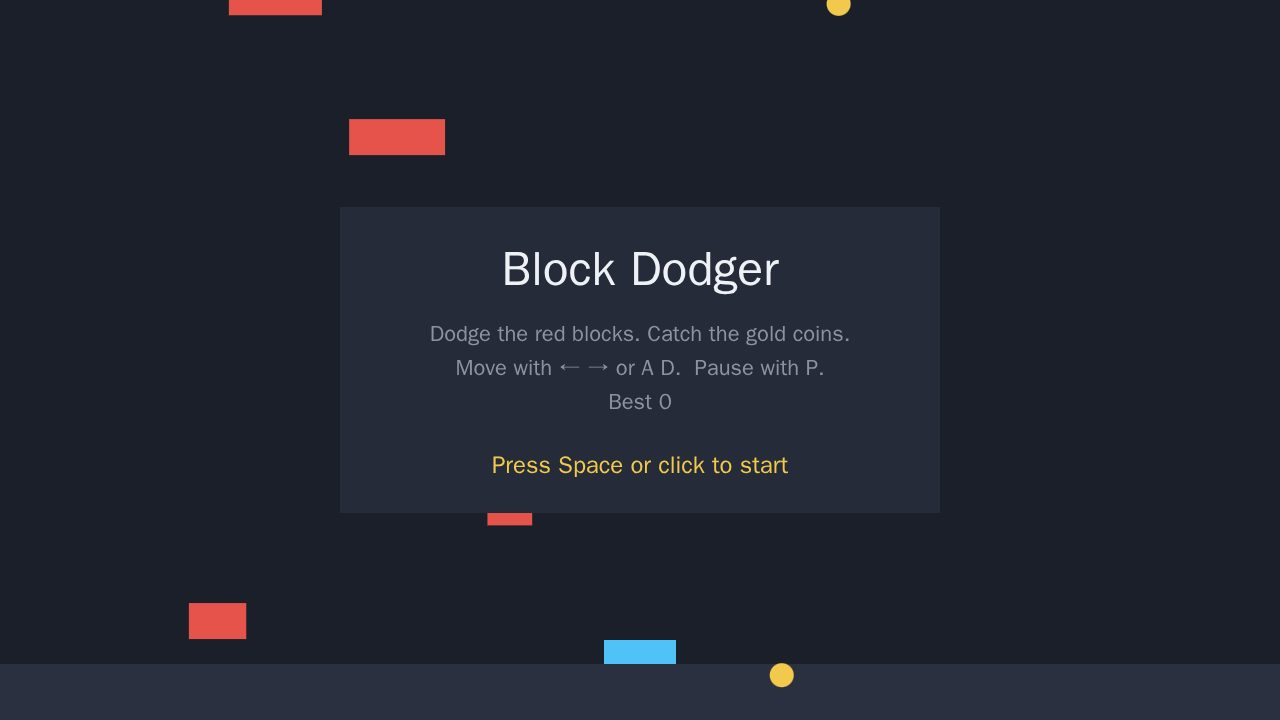
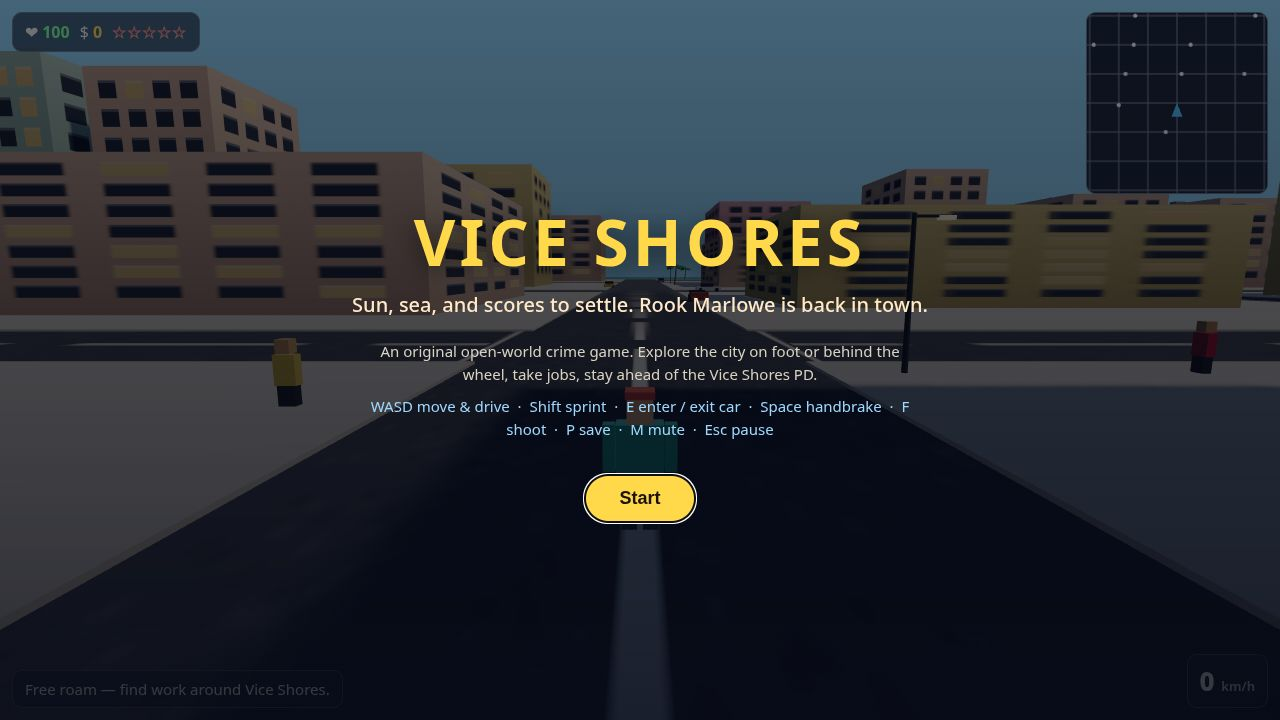
gta6-01: Vice Shores integration — restart fix, real screenshots, verified in browser (Builder C)

diff --git a/game/src/world.js b/game/src/world.js
@@ -33,7 +33,10 @@ function makeFacadeTexture(rng, base) {
   return texture;
 }
 
-/** Asphalt with a dashed centre line, tiled along the road's length. */
+/** Asphalt with a dashed centre line, tiled along the road's length. The road
+ * boxes map U along their 472 m length and V across their 14 m width, so the
+ * dash runs along U (horizontal in the canvas) and the texture repeats 33x
+ * in U (one ~14 m tile per repeat) and once in V. */
 function makeRoadTexture() {
   const canvas = document.createElement('canvas');
   canvas.width = 64;
@@ -46,12 +49,12 @@ function makeRoadTexture() {
     ctx.fillStyle = Math.random() < 0.5 ? 'rgba(255,255,255,0.05)' : 'rgba(0,0,0,0.12)';
     ctx.fillRect(Math.random() * 64, Math.random() * 128, 2, 2);
   }
-  // Dashed centre line (runs along the texture's vertical axis).
+  // Dashed centre line (runs along U, the road's length): centred in V.
   ctx.fillStyle = '#e8e4d8';
-  ctx.fillRect(30, 8, 4, 56);
-  // Solid edge lines.
-  ctx.fillRect(2, 0, 2, 128);
-  ctx.fillRect(60, 0, 2, 128);
+  ctx.fillRect(8, 62, 48, 4);
+  // Solid edge lines, also along U.
+  ctx.fillRect(0, 2, 64, 2);
+  ctx.fillRect(0, 124, 64, 2);
   const texture = new THREE.CanvasTexture(canvas);
   texture.wrapS = THREE.RepeatWrapping;
   texture.wrapT = THREE.RepeatWrapping;
@@ -196,14 +199,19 @@ export function buildWorld(scene, rng) {
   // --- Roads ------------------------------------------------------------------
   const roadTexture = makeRoadTexture();
   // One shared material/texture for every road: tile the dashes along the length.
-  roadTexture.repeat.set(1, Math.round((CITY.halfExtent * 2 + CITY.streetWidth) / 14));
+  roadTexture.repeat.set(Math.round((CITY.halfExtent * 2 + CITY.streetWidth) / 14), 1);
   const roadMat = new THREE.MeshStandardMaterial({ map: roadTexture, roughness: 0.95 });
   const roadLen = CITY.halfExtent * 2 + CITY.streetWidth;
   for (const line of CITY.roadLines) {
     for (const along of ['x', 'z']) {
       const road = new THREE.Mesh(new THREE.BoxGeometry(roadLen, 0.1, CITY.streetWidth), roadMat);
       if (along === 'x') road.position.set(0, 0.02, line);
-      else road.position.set(line, 0.02, 0);
+      else {
+        // Turn the box so its local length (U) runs along world z, matching
+        // the x-roads' mapping; otherwise this road's dashes run across it.
+        road.rotation.y = Math.PI / 2;
+        road.position.set(line, 0.02, 0);
+      }
       road.receiveShadow = true;
       scene.add(road);
     }

diff --git a/game/src/missions.js b/game/src/missions.js
@@ -168,13 +168,17 @@ export function createMissions(game) {
       stage = 1;
       hidePackage();
       if (police?.addHeat) police.addHeat(2);
-      setObjectiveText('Package grabbed — drop to 1 star to shake the heat.');
+      // The main loop re-reads the mission's objective every frame, so the
+      // stage text has to live on the mission itself, not just in a HUD call.
+      list[1].objective = 'Package grabbed — drop to 1 star to shake the heat.';
+      setObjectiveText(list[1].objective);
       say('Package grabbed. Lose the heat!');
     } else if (activeIndex === 3 && stage === 0) {
       stage = 1;
       stageTimer = 0;
       if (police?.addHeat) police.addHeat(4);
-      setObjectiveText('Survive the shootout — hold on!');
+      list[3].objective = 'Survive the shootout — hold on!';
+      setObjectiveText(list[3].objective);
       say('The Kings are here. Survive!');
     }
   }
@@ -193,6 +197,27 @@ export function createMissions(game) {
     if (i === 1) showPackage(DOCKS);
     if (i === 2 && police?.addHeat) police.addHeat(3);
     return true;
+  }
+
+  // Stage text overwrites a mission's objective as it advances; a restart
+  // restores the originals so the next run reads the first-stage text again.
+  const ORIGINAL_OBJECTIVES = list.map((m) => m.objective);
+
+  /** Full reset for Play again: clear every mission, including a completed one. */
+  function reset() {
+    activeIndex = -1;
+    stage = 0;
+    stageTimer = 0;
+    doneCount = 0;
+    done.fill(false);
+    target = null;
+    hidePackage();
+    for (const mission of list) {
+      mission.done = false;
+      mission.completed = false;
+      mission.objective = ORIGINAL_OBJECTIVES[mission.index];
+    }
+    setObjectiveText('Free roam — find work around Vice Shores.');
   }
 
   function update(dt) {
@@ -225,7 +250,8 @@ export function createMissions(game) {
         if (stageTimer >= SHOOTOUT_SECONDS) {
           stage = 2;
           target = { ...HIDEOUT };
-          setObjectiveText('Shipment secured — get to the hideout.');
+          list[3].objective = 'Shipment secured — get to the hideout.';
+          setObjectiveText(list[3].objective);
           say('Shipment secured. Run for the hideout!');
         }
       } else if (stage === 2 && target && near(player, target)) {
@@ -247,6 +273,7 @@ export function createMissions(game) {
     },
     start,
     update,
+    reset,
     onObjective: advance,
   };
   return api;

diff --git a/game/src/main.js b/game/src/main.js
@@ -98,7 +98,10 @@ function allCars() {
 
 function objectiveText() {
   const current = missions && missions.current;
-  if (current) return current.title || current.name || current.objective || 'Free roam';
+  // The objective (which missions rewrite as stages advance) comes first:
+  // the name is only a fallback, or the HUD would show "The Big Score"
+  // forever and never the actual instruction.
+  if (current) return current.objective || current.title || current.name || 'Free roam';
   return 'Free roam — find work around Vice Shores.';
 }
 
@@ -164,13 +167,25 @@ function endGame(kind) {
 
 document.getElementById('start-button')?.addEventListener('click', startGame);
 document.getElementById('restart-button')?.addEventListener('click', () => {
+  // Full reset: a completed mission must not stay current (it would end the
+  // new run on its first frame), and old heat/cruisers must not carry over.
+  if (missions && typeof missions.reset === 'function') missions.reset();
+  if (police && typeof police.reset === 'function') police.reset();
+  for (const key of Object.keys(game.crimes)) delete game.crimes[key];
   player.setPosition(SPAWN.x, SPAWN.z, SPAWN.heading);
   player.health = 100;
   player.money = 0;
+  player.speed = 0;
+  player.driving = null;
+  player.busted = false;
   if (game.currentCar) {
     game.currentCar = null;
     player.setVisible(true);
   }
+  hud.setHealth(100);
+  hud.setMoney(0);
+  hud.setWanted(0);
+  hud.setObjective('Free roam — find work around Vice Shores.');
   startGame();
 });
 document.getElementById('start-screen')?.addEventListener('click', (event) => {
@@ -294,9 +309,13 @@ function frame(now) {
   });
   if (audio.siren) audio.siren((police.wanted || 0) > 0);
 
-  // Camera follows whoever is moving: the car, or Rook on foot.
-  followCamera(camera, driving ? game.currentCar : player, dt, {
-    mode: driving ? 'car' : 'foot',
+  // Camera follows whoever is moving: the car, or Rook on foot. Re-read the
+  // car here, not the `driving` flag captured above the driving block:
+  // exiting sets game.currentCar to null on this same frame, and following
+  // the stale flag would pass null as the camera target and throw.
+  const followTarget = game.currentCar || player;
+  followCamera(camera, followTarget, dt, {
+    mode: game.currentCar ? 'car' : 'foot',
     orbitYaw: input.orbitYaw,
     orbitPitch: input.orbitPitch,
   });

diff --git a/game/src/shots.js b/game/src/shots.js
@@ -106,20 +106,28 @@ export function applyShotParams(game) {
     putPlayerInCar(game, 0, -74);
     if (player && typeof player.money !== 'number') player.money = 250;
     if (police?.addHeat) police.addHeat(3);
-    // Line the three cruisers up behind Rook's car, in pursuit: the player
-    // faces +x (heading PI/2), so "behind" is -x with a lane stagger in z.
+    // Cruisers only spawn inside police.update, so run one tick now to
+    // create them — otherwise the line-up below would position nothing and
+    // the shot would show an empty road behind Rook.
+    if (police?.update) police.update(0.016, player, {});
+    // Line the three cruisers up AHEAD of Rook's car, in pursuit: the chase
+    // camera sits behind Rook looking forward, so cruisers staged behind
+    // him would be behind the camera and invisible. Ahead, staggered across
+    // the lanes with their light bars flashing, they read as a chase.
     const at = readPos(player);
     (police?.policeCars ?? []).forEach((car, i) => {
-      car.x = at.x - 12 - i * 8;
-      car.z = at.z + (i - 1) * 6;
+      car.x = at.x + 16 + i * 10;
+      car.z = at.z + (i - 1) * 5;
       car.heading = Math.PI / 2;
       if (car.mesh?.position?.set) car.mesh.position.set(car.x, 0, car.z);
       if (car.mesh) car.mesh.rotation.y = car.heading;
     });
     if (hud?.setObjective) hud.setObjective('Lose the heat — 3 stars on your tail.');
   } else if (shot === 'mission') {
-    // On the road near the Docks, in the car, with mission 2 already active.
-    putPlayerInCar(game, -148, 74);
+    // On a sunny stretch of the z = 74 road, in the car, with mission 2
+    // already active. (The Docks end of the city sits in a tall building's
+    // shadow, which left the first take of this shot nearly black.)
+    putPlayerInCar(game, 0, 74);
     if (missions?.start) missions.start(1);
     if (hud?.setObjective) hud.setObjective('Collect the package at the Docks, then drop to 1 star.');
   } else {

diff --git a/game/src/police.js b/game/src/police.js
@@ -133,6 +133,15 @@ export function createPolice(scene, world, rng) {
     decayTimer = 0;
   }
 
+  /** Full reset for Play again: drop all heat and pull every cruiser off the road. */
+  function reset() {
+    heat = 0;
+    quietTimer = 0;
+    decayTimer = 0;
+    api.busted = false;
+    for (const car of [...policeCars]) removeCar(car);
+  }
+
   function bust(player) {
     // The bust is delivered three ways: the flag the main loop reads every
     // frame, the hook main.js may assign, and a flag on the player itself.
@@ -215,6 +224,7 @@ export function createPolice(scene, world, rng) {
     policeCars,
     addHeat,
     update,
+    reset,
     // Assigned by main.js: called the moment Rook is busted.
     onBusted: null,
   };
